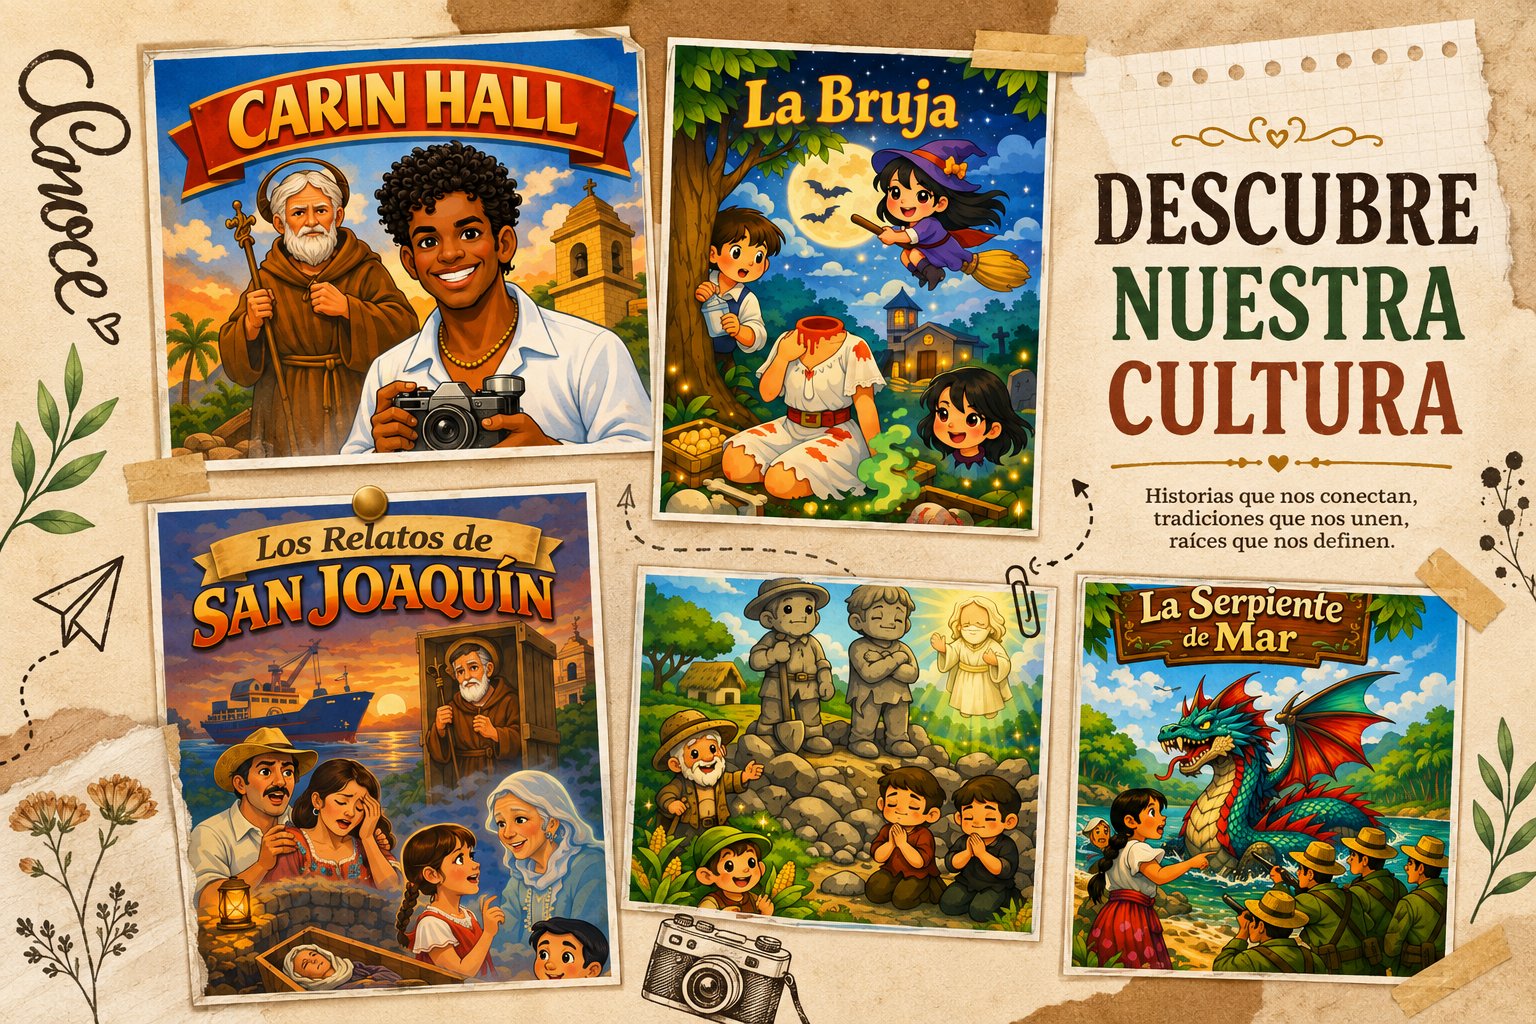
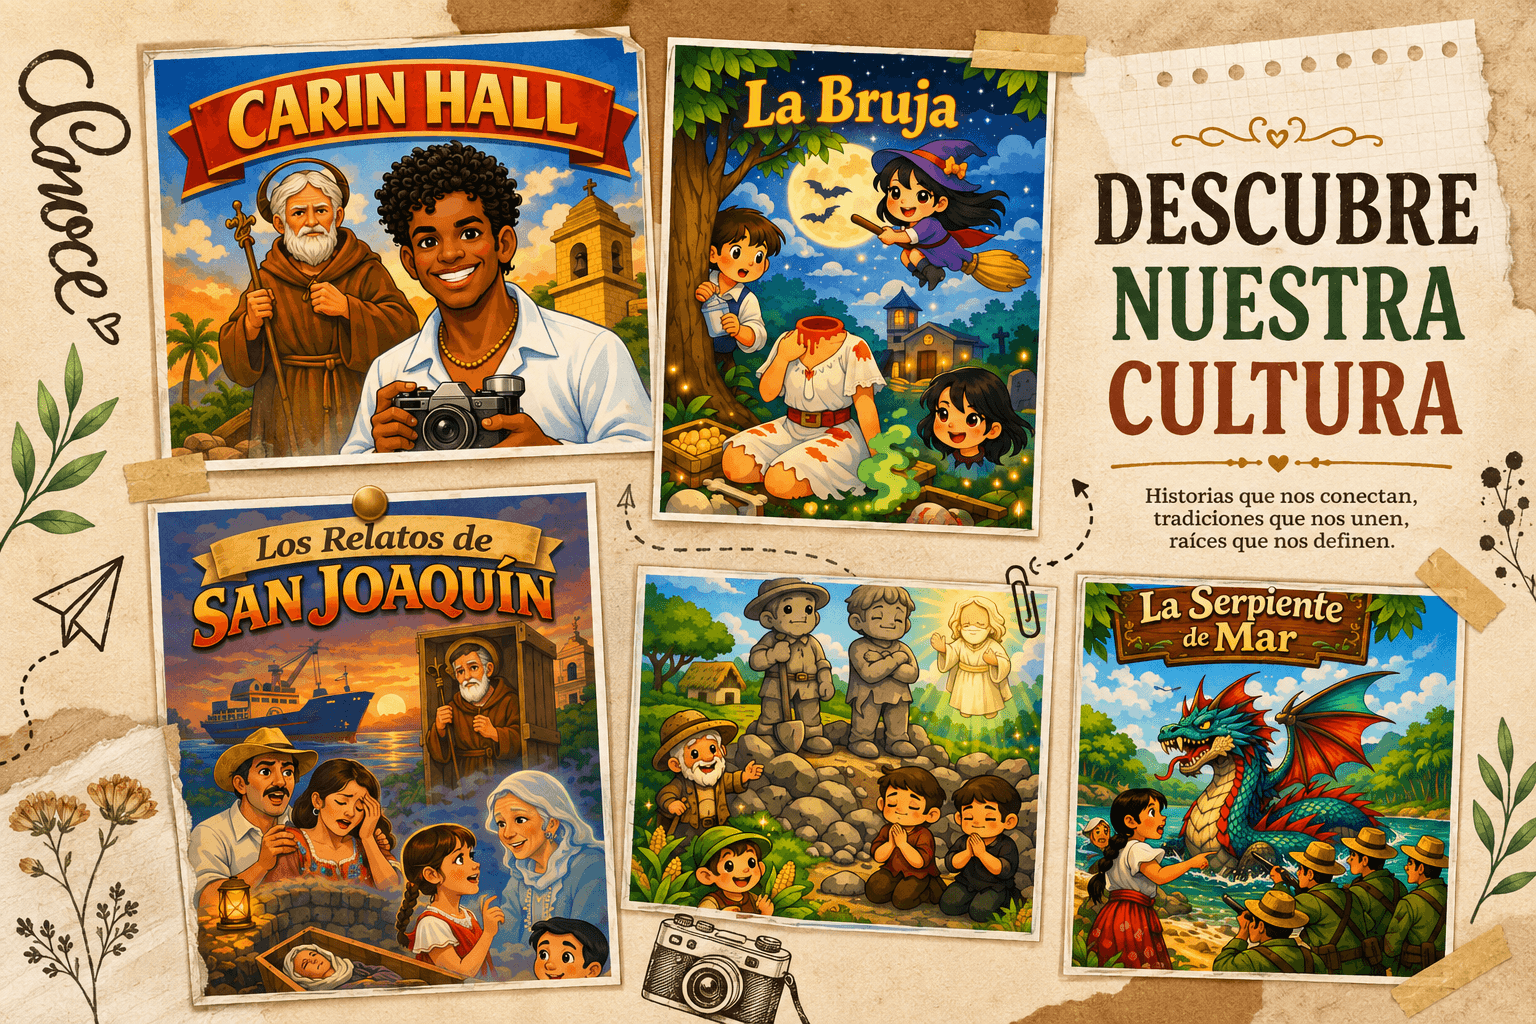
Perf: optimizacion de assets e imagenes (-35MB) + fuentes no bloqueantes
- Imagenes public/ redimensionadas + recomprimidas (mismos nombres): 45.9MB -> 10.7MB. Logo 916KB->50KB (carga en cada pagina), banner 4.5MB->1.2MB, portadas ~2.9MB->~700KB.

- Fuentes Google movidas de @import (render-blocking) a <link> en index.html con preconnect + display; Material Symbols con display=block (sin FOIT de iconos).

- LegendHero: img con decoding=async. Favicon href corregido (/public -> /).

diff --git a/leyendas-de-bacalar/frontend/index.html b/leyendas-de-bacalar/frontend/index.html
@@ -3,7 +3,17 @@
   <head>
     <meta charset="UTF-8" />
     <meta name="viewport" content="width=device-width, initial-scale=1.0" />
-    <link rel="icon" type="image/png" href="/public/favicon_bacalar.ico" />
+    <link rel="icon" href="/favicon_bacalar.ico" />
+    <!-- Fuentes: en el HTML (paralelo, no render-blocking como el @import en CSS).
+         Material Symbols con display=block (sin FOIT de iconos); texto con swap. -->
+    <link rel="preconnect" href="https://fonts.googleapis.com" />
+    <link rel="preconnect" href="https://fonts.gstatic.com" crossorigin />
+    <link rel="stylesheet" href="https://fonts.googleapis.com/css2?family=Material+Symbols+Rounded:opsz,wght,FILL,GRAD@20..48,400..700,0..1,0&display=block" />
+    <link rel="stylesheet" href="https://fonts.googleapis.com/css2?family=Anton&display=swap" />
+    <link rel="stylesheet" href="https://fonts.googleapis.com/css2?family=Fraunces:opsz,wght@9..144,400;9..144,500;9..144,600;9..144,700&display=swap" />
+    <link rel="stylesheet" href="https://fonts.googleapis.com/css2?family=Playfair+Display:wght@500;600;700;800&family=Poppins:wght@400;500;600;700;800&display=swap" />
+    <!-- Fuentes editoriales del lector/editor (los .woff2 solo bajan donde se usan). -->
+    <link rel="stylesheet" href="https://fonts.googleapis.com/css2?family=Crimson+Pro:wght@400;500;600;700&family=Inter:wght@400;500;600;700;800&family=Libre+Baskerville:wght@400;700&family=Lora:wght@400;500;600;700&family=Merriweather:wght@400;700&family=Montserrat:wght@400;500;600;700&family=Newsreader:opsz,wght@6..72,400;6..72,500;6..72,600;6..72,700&family=Nunito+Sans:wght@400;500;600;700;800&family=Raleway:wght@400;500;600;700&family=Work+Sans:wght@400;500;600;700&family=Cormorant+Garamond:wght@400;500;600;700&display=swap" />
     <title>Leyendas de Bacalar</title>
   </head>
   <body>

diff --git a/leyendas-de-bacalar/frontend/src/styles/index.css b/leyendas-de-bacalar/frontend/src/styles/index.css
@@ -1,8 +1,5 @@
-@import url('https://fonts.googleapis.com/css2?family=Material+Symbols+Rounded:opsz,wght,FILL,GRAD@20..48,400..700,0..1,0');
-@import url('https://fonts.googleapis.com/css2?family=Anton&display=swap');
-@import url('https://fonts.googleapis.com/css2?family=Fraunces:opsz,wght@9..144,400;9..144,500;9..144,600;9..144,700&display=swap');
-@import url('https://fonts.googleapis.com/css2?family=Playfair+Display:wght@500;600;700;800&family=Poppins:wght@400;500;600;700;800&display=swap');
-@import './editor-fonts.css';
+/* Todas las fuentes de Google se cargan via <link> en index.html (paralelo, no
+   render-blocking). Los .woff2 de cada familia solo se descargan donde se usan. */
 
 :root {
   color-scheme: dark;

diff --git a/leyendas-de-bacalar/frontend/src/components/legend/LegendHero.jsx b/leyendas-de-bacalar/frontend/src/components/legend/LegendHero.jsx
@@ -64,7 +64,7 @@ export default function LegendHero({
         <div className="legend-hero__layout">
           <motion.div className="legend-hero__cover" style={coverStyle} {...coverProps}>
             {coverImage ? (
-              <img src={coverImage} alt={`Portada de ${title}`} loading="lazy" />
+              <img src={coverImage} alt={`Portada de ${title}`} loading="lazy" decoding="async" />
             ) : (
               <div className="legend-hero__cover-fallback">
                 <span>{title?.slice(0, 2).toUpperCase()}</span>
